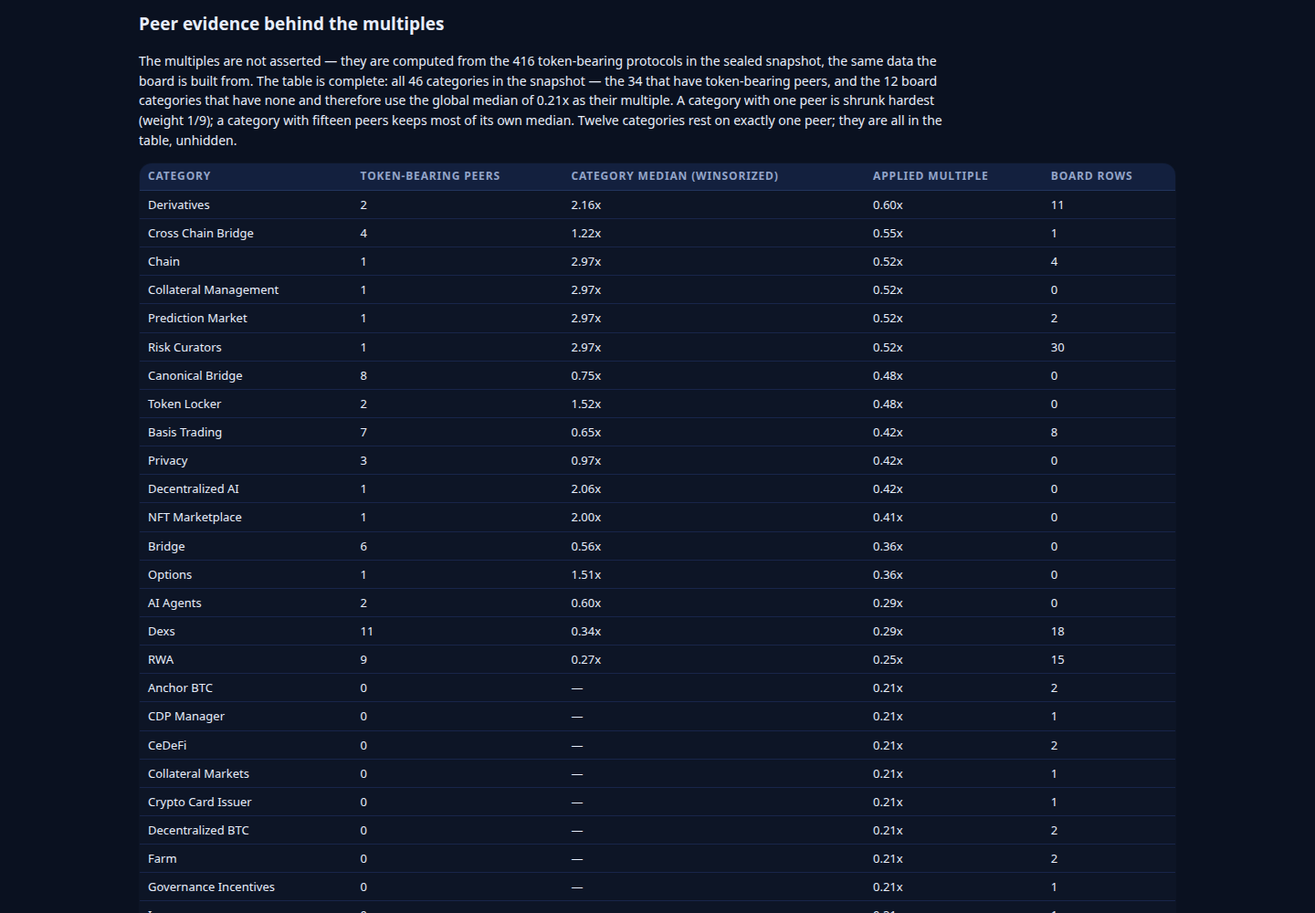
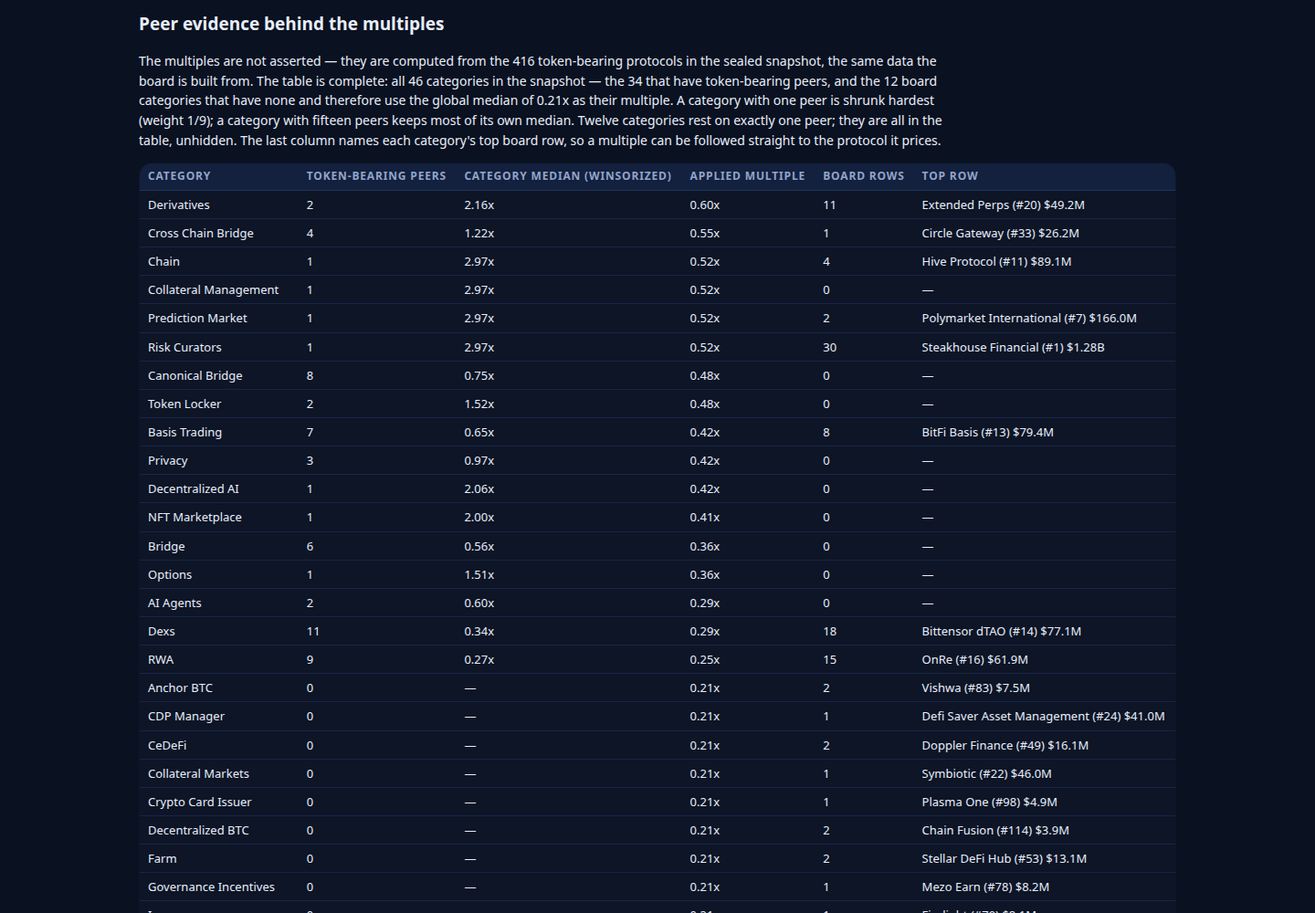
Rank recovery cycle 6: radar-2.6 — audit every number, fix the arithmetic
Round 6 (radar-2.5, 01a20732) scored at dev win rate 0.855176
(10W/0D/2L), up from Round 5's 0.837755 — climb continues
(0.765 -> 0.812 -> 0.838 -> 0.855), no plateau, still outside the
paid zone. Cycle 6 buys quality, not volume: the dashboard is near
the 65,536-byte cap, so nothing new is added that is not verified.

- Full end-to-end audit of every number in the dashboard source
  against the sealed snapshot and the built board: 284 checks, 0
  failures before the fix (peer table, 46 derivations, 14 no-row
  reasons, stress tests, board stats, farm plans verbatim, guide and
  risks numbers). The audit's one finding: equations printed factors
  to two decimals, so a reader multiplying them could land up to
  2.82% away from the stated implied value (Decentralized BTC).
- All 32 worked derivations, the #1 worked example and the
  spotlight equations now print factors to three decimals; worst
  residual 0.37%, and the method now states the residual honestly
  (within half a percent, board arithmetic uses unrounded values).
  Re-audit at 3 decimals: 330 checks, 0 failures (the extra 46
  check the new column below).
- Peer-evidence table is denser: a Top row column names each
  category's highest board row, so a multiple can be followed
  straight to the protocol it prices.
- Narrative tightened to one read; formula untouched. Two
  candidates tested and rejected with evidence: growth weight 0.50
  and shrink k=4 both leave the top 10 unchanged, so the local eval
[…]

diff --git a/dashboard/index.html b/dashboard/index.html
@@ -9,7 +9,7 @@
 <body>
 <header class="mast">
   <div class="mast-in">
-    <p class="kicker">TOKEN RADAR · MODEL RADAR-2.5 · SNAPSHOT <span id="asOf">—</span></p>
+    <p class="kicker">TOKEN RADAR · MODEL RADAR-2.6 · SNAPSHOT <span id="asOf">—</span></p>
     <h1>Which pre-token protocol is worth farming next?</h1>
     <p class="lede">Read it in 30 seconds: rank is implied launch value — <strong>TVL × peer × growth × maturity × breadth</strong>. Each row prints its four factors; click one for its farm plan and exit trigger. Below the board: the peer evidence for all 46 categories, a worked derivation per category, and three stress tests. Token-bearing protocols are never rows — they are the peer evidence.</p>
     <p class="stats" id="statsLine">Loading the board…</p>
@@ -52,56 +52,56 @@
 
   <section class="evidence" aria-label="Peer evidence">
     <h2>Peer evidence behind the multiples</h2>
-    <p>The multiples are not asserted — they are computed from the 416 token-bearing protocols in the sealed snapshot, the same data the board is built from. The table is complete: all 46 categories in the snapshot — the 34 that have token-bearing peers, and the 12 board categories that have none and therefore use the global median of 0.21x as their multiple. A category with one peer is shrunk hardest (weight 1/9); a category with fifteen peers keeps most of its own median. Twelve categories rest on exactly one peer; they are all in the table, unhidden.</p>
+    <p>The multiples are not asserted — they are computed from the 416 token-bearing protocols in the sealed snapshot, the same data the board is built from. The table is complete: all 46 categories in the snapshot — the 34 that have token-bearing peers, and the 12 board categories that have none and therefore use the global median of 0.21x as their multiple. A category with one peer is shrunk hardest (weight 1/9); a category with fifteen peers keeps most of its own median. Twelve categories rest on exactly one peer; they are all in the table, unhidden. The last column names each category's top board row, so a multiple can be followed straight to the protocol it prices.</p>
     <table>
-      <thead><tr><th>Category</th><th>Token-bearing peers</th><th>Category median (winsorized)</th><th>Applied multiple</th><th>Board rows</th></tr></thead>
+      <thead><tr><th>Category</th><th>Token-bearing peers</th><th>Category median (winsorized)</th><th>Applied multiple</th><th>Board rows</th><th>Top row</th></tr></thead>
       <tbody>
-<tr><td>Derivatives</td><td>2</td><td>2.16x</td><td>0.60x</td><td>11</td></tr>
-<tr><td>Cross Chain Bridge</td><td>4</td><td>1.22x</td><td>0.55x</td><td>1</td></tr>
-<tr><td>Chain</td><td>1</td><td>2.97x</td><td>0.52x</td><td>4</td></tr>
-<tr><td>Collateral Management</td><td>1</td><td>2.97x</td><td>0.52x</td><td>0</td></tr>
-<tr><td>Prediction Market</td><td>1</td><td>2.97x</td><td>0.52x</td><td>2</td></tr>
-<tr><td>Risk Curators</td><td>1</td><td>2.97x</td><td>0.52x</td><td>30</td></tr>
-<tr><td>Canonical Bridge</td><td>8</td><td>0.75x</td><td>0.48x</td><td>0</td></tr>
-<tr><td>Token Locker</td><td>2</td><td>1.52x</td><td>0.48x</td><td>0</td></tr>
-<tr><td>Basis Trading</td><td>7</td><td>0.65x</td><td>0.42x</td><td>8</td></tr>
-<tr><td>Privacy</td><td>3</td><td>0.97x</td><td>0.42x</td><td>0</td></tr>
-<tr><td>Decentralized AI</td><td>1</td><td>2.06x</td><td>0.42x</td><td>0</td></tr>
-<tr><td>NFT Marketplace</td><td>1</td><td>2.00x</td><td>0.41x</td><td>0</td></tr>
-<tr><td>Bridge</td><td>6</td><td>0.56x</td><td>0.36x</td><td>0</td></tr>
-<tr><td>Options</td><td>1</td><td>1.51x</td><td>0.36x</td><td>0</td></tr>
-<tr><td>AI Agents</td><td>2</td><td>0.60x</td><td>0.29x</td><td>0</td></tr>
-<tr><td>Dexs</td><td>11</td><td>0.34x</td><td>0.29x</td><td>18</td></tr>
-<tr><td>RWA</td><td>9</td><td>0.27x</td><td>0.25x</td><td>15</td></tr>
-<tr><td>Anchor BTC</td><td>0</td><td>—</td><td>0.21x</td><td>2</td></tr>
-<tr><td>CDP Manager</td><td>0</td><td>—</td><td>0.21x</td><td>1</td></tr>
-<tr><td>CeDeFi</td><td>0</td><td>—</td><td>0.21x</td><td>2</td></tr>
-<tr><td>Collateral Markets</td><td>0</td><td>—</td><td>0.21x</td><td>1</td></tr>
-<tr><td>Crypto Card Issuer</td><td>0</td><td>—</td><td>0.21x</td><td>1</td></tr>
-<tr><td>Decentralized BTC</td><td>0</td><td>—</td><td>0.21x</td><td>2</td></tr>
-<tr><td>Farm</td><td>0</td><td>—</td><td>0.21x</td><td>2</td></tr>
-<tr><td>Governance Incentives</td><td>0</td><td>—</td><td>0.21x</td><td>1</td></tr>
-<tr><td>Insurance</td><td>0</td><td>—</td><td>0.21x</td><td>1</td></tr>
-<tr><td>Leveraged Farming</td><td>1</td><td>0.17x</td><td>0.21x</td><td>2</td></tr>
-<tr><td>Liquid Restaking</td><td>2</td><td>0.18x</td><td>0.21x</td><td>0</td></tr>
-<tr><td>OTC Marketplace</td><td>0</td><td>—</td><td>0.21x</td><td>1</td></tr>
-<tr><td>Payments</td><td>2</td><td>0.18x</td><td>0.21x</td><td>1</td></tr>
-<tr><td>Stablecoin Wrapper</td><td>0</td><td>—</td><td>0.21x</td><td>2</td></tr>
-<tr><td>Uncollateralized Lending</td><td>0</td><td>—</td><td>0.21x</td><td>1</td></tr>
-<tr><td>Yield</td><td>9</td><td>0.19x</td><td>0.20x</td><td>12</td></tr>
-<tr><td>CDP</td><td>3</td><td>0.17x</td><td>0.20x</td><td>6</td></tr>
-<tr><td>DOR</td><td>1</td><td>0.09x</td><td>0.20x</td><td>0</td></tr>
-<tr><td>Launchpad</td><td>1</td><td>0.13x</td><td>0.20x</td><td>0</td></tr>
-<tr><td>Indexes</td><td>3</td><td>0.15x</td><td>0.20x</td><td>1</td></tr>
-<tr><td>Dual-Token Stablecoin</td><td>1</td><td>0.03x</td><td>0.19x</td><td>2</td></tr>
-<tr><td>Yield Aggregator</td><td>4</td><td>0.15x</td><td>0.19x</td><td>7</td></tr>
-<tr><td>Liquidity Manager</td><td>1</td><td>0.02x</td><td>0.19x</td><td>3</td></tr>
-<tr><td>Restaking</td><td>2</td><td>0.02x</td><td>0.18x</td><td>2</td></tr>
-<tr><td>Onchain Capital Allocator</td><td>2</td><td>0.01x</td><td>0.17x</td><td>18</td></tr>
-<tr><td>Staking Pool</td><td>2</td><td>0.00x</td><td>0.17x</td><td>3</td></tr>
-<tr><td>Lending</td><td>15</td><td>0.13x</td><td>0.16x</td><td>15</td></tr>
-<tr><td>CEX</td><td>9</td><td>0.07x</td><td>0.14x</td><td>0</td></tr>
-<tr><td>Liquid Staking</td><td>9</td><td>0.04x</td><td>0.12x</td><td>0</td></tr>
+<tr><td>Derivatives</td><td>2</td><td>2.16x</td><td>0.60x</td><td>11</td><td>Extended Perps (#20) $49.2M</td></tr>
+<tr><td>Cross Chain Bridge</td><td>4</td><td>1.22x</td><td>0.55x</td><td>1</td><td>Circle Gateway (#33) $26.2M</td></tr>
+<tr><td>Chain</td><td>1</td><td>2.97x</td><td>0.52x</td><td>4</td><td>Hive Protocol (#11) $89.1M</td></tr>
+<tr><td>Collateral Management</td><td>1</td><td>2.97x</td><td>0.52x</td><td>0</td><td>—</td></tr>
+<tr><td>Prediction Market</td><td>1</td><td>2.97x</td><td>0.52x</td><td>2</td><td>Polymarket International (#7) $166.0M</td></tr>
+<tr><td>Risk Curators</td><td>1</td><td>2.97x</td><td>0.52x</td><td>30</td><td>Steakhouse Financial (#1) $1.28B</td></tr>
+<tr><td>Canonical Bridge</td><td>8</td><td>0.75x</td><td>0.48x</td><td>0</td><td>—</td></tr>
+<tr><td>Token Locker</td><td>2</td><td>1.52x</td><td>0.48x</td><td>0</td><td>—</td></tr>
+<tr><td>Basis Trading</td><td>7</td><td>0.65x</td><td>0.42x</td><td>8</td><td>BitFi Basis (#13) $79.4M</td></tr>
+<tr><td>Privacy</td><td>3</td><td>0.97x</td><td>0.42x</td><td>0</td><td>—</td></tr>
+<tr><td>Decentralized AI</td><td>1</td><td>2.06x</td><td>0.42x</td><td>0</td><td>—</td></tr>
+<tr><td>NFT Marketplace</td><td>1</td><td>2.00x</td><td>0.41x</td><td>0</td><td>—</td></tr>
+<tr><td>Bridge</td><td>6</td><td>0.56x</td><td>0.36x</td><td>0</td><td>—</td></tr>
+<tr><td>Options</td><td>1</td><td>1.51x</td><td>0.36x</td><td>0</td><td>—</td></tr>
+<tr><td>AI Agents</td><td>2</td><td>0.60x</td><td>0.29x</td><td>0</td><td>—</td></tr>
+<tr><td>Dexs</td><td>11</td><td>0.34x</td><td>0.29x</td><td>18</td><td>Bittensor dTAO (#14) $77.1M</td></tr>
+<tr><td>RWA</td><td>9</td><td>0.27x</td><td>0.25x</td><td>15</td><td>OnRe (#16) $61.9M</td></tr>
+<tr><td>Anchor BTC</td><td>0</td><td>—</td><td>0.21x</td><td>2</td><td>Vishwa (#83) $7.5M</td></tr>
+<tr><td>CDP Manager</td><td>0</td><td>—</td><td>0.21x</td><td>1</td><td>Defi Saver Asset Management (#24) $41.0M</td></tr>
+<tr><td>CeDeFi</td><td>0</td><td>—</td><td>0.21x</td><td>2</td><td>Doppler Finance (#49) $16.1M</td></tr>
+<tr><td>Collateral Markets</td><td>0</td><td>—</td><td>0.21x</td><td>1</td><td>Symbiotic (#22) $46.0M</td></tr>
+<tr><td>Crypto Card Issuer</td><td>0</td><td>—</td><td>0.21x</td><td>1</td><td>Plasma One (#98) $4.9M</td></tr>
+<tr><td>Decentralized BTC</td><td>0</td><td>—</td><td>0.21x</td><td>2</td><td>Chain Fusion (#114) $3.9M</td></tr>
+<tr><td>Farm</td><td>0</td><td>—</td><td>0.21x</td><td>2</td><td>Stellar DeFi Hub (#53) $13.1M</td></tr>
+<tr><td>Governance Incentives</td><td>0</td><td>—</td><td>0.21x</td><td>1</td><td>Mezo Earn (#78) $8.2M</td></tr>
+<tr><td>Insurance</td><td>0</td><td>—</td><td>0.21x</td><td>1</td><td>Firelight (#79) $8.1M</td></tr>
+<tr><td>Leveraged Farming</td><td>1</td><td>0.17x</td><td>0.21x</td><td>2</td><td>3F (#89) $6.4M</td></tr>
+<tr><td>Liquid Restaking</td><td>2</td><td>0.18x</td><td>0.21x</td><td>0</td><td>—</td></tr>
+<tr><td>OTC Marketplace</td><td>0</td><td>—</td><td>0.21x</td><td>1</td><td>Figure Markets Exchange (#42) $23.0M</td></tr>
+<tr><td>Payments</td><td>2</td><td>0.18x</td><td>0.21x</td><td>1</td><td>Lightning Network (#28) $31.2M</td></tr>
+<tr><td>Stablecoin Wrapper</td><td>0</td><td>—</td><td>0.21x</td><td>2</td><td>Saturn (#34) $25.8M</td></tr>
+<tr><td>Uncollateralized Lending</td><td>0</td><td>—</td><td>0.21x</td><td>1</td><td>3Jane Lending (#144) $2.7M</td></tr>
+<tr><td>Yield</td><td>9</td><td>0.19x</td><td>0.20x</td><td>12</td><td>infiniFi (#56) $11.9M</td></tr>
+<tr><td>CDP</td><td>3</td><td>0.17x</td><td>0.20x</td><td>6</td><td>USDD (#6) $181.4M</td></tr>
+<tr><td>DOR</td><td>1</td><td>0.09x</td><td>0.20x</td><td>0</td><td>—</td></tr>
+<tr><td>Launchpad</td><td>1</td><td>0.13x</td><td>0.20x</td><td>0</td><td>—</td></tr>
+<tr><td>Indexes</td><td>3</td><td>0.15x</td><td>0.20x</td><td>1</td><td>Set Protocol (#173) $1.4M</td></tr>
+<tr><td>Dual-Token Stablecoin</td><td>1</td><td>0.03x</td><td>0.19x</td><td>2</td><td>Hylo Protocol (#104) $4.3M</td></tr>
+<tr><td>Yield Aggregator</td><td>4</td><td>0.15x</td><td>0.19x</td><td>7</td><td>CIAN Yield Layer (#19) $51.6M</td></tr>
+<tr><td>Liquidity Manager</td><td>1</td><td>0.02x</td><td>0.19x</td><td>3</td><td>Arrakis Modular (#77) $8.3M</td></tr>
+<tr><td>Restaking</td><td>2</td><td>0.02x</td><td>0.18x</td><td>2</td><td>b14g (#40) $23.8M</td></tr>
+<tr><td>Onchain Capital Allocator</td><td>2</td><td>0.01x</td><td>0.17x</td><td>18</td><td>Veda (#4) $240.5M</td></tr>
+<tr><td>Staking Pool</td><td>2</td><td>0.00x</td><td>0.17x</td><td>3</td><td>Reti Pooling (#70) $9.1M</td></tr>
+<tr><td>Lending</td><td>15</td><td>0.13x</td><td>0.16x</td><td>15</td><td>Figure Markets Prime (#31) $26.6M</td></tr>
+<tr><td>CEX</td><td>9</td><td>0.07x</td><td>0.14x</td><td>0</td><td>—</td></tr>
+<tr><td>Liquid Staking</td><td>9</td><td>0.04x</td><td>0.12x</td><td>0</td><td>—</td></tr>
       </tbody>
     </table>
     <p class="fine">Read the table against the board: the applied multiple is the number every row in that category multiplies its TVL by, before growth, maturity and breadth. Where the median and the applied multiple differ most, the shrink is doing the work: a single peer, capped at 2.97x, pulled 8/9 of the way toward the global 0.21x. The twelve categories with no token-bearing peer at all are marked with a dash — the global median stands in for them, and their rows say so.</p>
@@ -110,38 +110,38 @@
   <section class="worked" aria-label="Worked examples">
     <h2>Worked examples — the top of every category</h2>
     <p>One full derivation per category on the board: the category leader's own TVL, peer multiple, growth, maturity and breadth, multiplied out. Every number below is printed on that protocol's board row, so each line can be checked against the board itself.</p>
-<p><strong>Risk Curators — Steakhouse Financial (#1).</strong> $2.75B TVL × 0.52 peer (1 peer) × 0.99 growth (-2.2% in seven days) × 0.82 maturity × 1.09 breadth (11 chains) = $1.28B implied. Next in the category: Sentora Curator (#2) at $1.21B.</p>
-<p><strong>Onchain Capital Allocator — Veda (#4).</strong> $1.56B TVL × 0.17 peer (2 peers) × 0.97 growth (-8.3% in seven days) × 0.84 maturity × 1.09 breadth (13 chains) = $240.5M implied. Next in the category: Upshift (#12) at $83.5M.</p>
-<p><strong>CDP — USDD (#6).</strong> $1.06B TVL × 0.20 peer (3 peers) × 0.99 growth (-2.8% in seven days) × 0.84 maturity × 1.03 breadth (3 chains) = $181.4M implied. Next in the category: Felix CDP (#132) at $3.0M.</p>
-<p><strong>Prediction Market — Polymarket International (#7).</strong> $320.2M TVL × 0.52 peer (1 peer) × 1.00 growth (-1.1% in seven days) × 1.00 maturity × 1.00 breadth (1 chain) = $166.0M implied. Next in the category: Predict Fun (#95) at $5.1M.</p>
-<p><strong>Chain — Hive Protocol (#11).</strong> $198.8M TVL × 0.52 peer (1 peer) × 0.96 growth (-10.2% in seven days) × 0.90 maturity × 1.00 breadth (1 chain) = $89.1M implied. Next in the category: Noble (#29) at $30.5M.</p>
-<p><strong>Basis Trading — BitFi Basis (#13).</strong> $214.9M TVL × 0.42 peer (7 peers) × 0.96 growth (-10.3% in seven days) × 0.84 maturity × 1.09 breadth (7 chains) = $79.4M implied. Next in the category: Tori Finance (#37) at $24.7M.</p>
-<p><strong>Dexs — Bittensor dTAO (#14).</strong> $376.0M TVL × 0.29 peer (11 peers) × 0.97 growth (-6.6% in seven days) × 0.73 maturity × 1.00 breadth (1 chain) = $77.1M implied. Next in the category: Nado Spot (#58) at $11.4M.</p>
-<p><strong>RWA — OnRe (#16).</strong> $308.9M TVL × 0.25 peer (9 peers) × 1.00 growth (+0.1% in seven days) × 0.81 maturity × 1.00 breadth (1 chain) = $61.9M implied. Next in the category: OpenTrade (#18) at $52.0M.</p>
-<p><strong>Yield Aggregator — CIAN Yield Layer (#19).</strong> $280.3M TVL × 0.19 peer (4 peers) × 1.02 growth (+4.7% in seven days) × 0.86 maturity × 1.09 breadth (7 chains) = $51.6M implied. Next in the category: vfat.io (#96) at $5.0M.</p>
-<p><strong>Derivatives — Extended Perps (#20).</strong> $96.4M TVL × 0.60 peer (2 peers) × 0.98 growth (-4.9% in seven days) × 0.84 maturity × 1.03 breadth (3 chains) = $49.2M implied. Next in the category: Arcus Perps (#32) at $26.4M.</p>
-<p><strong>Collateral Markets — Symbiotic (#22).</strong> $253.9M TVL × 0.21 global multiple (no token-bearing peers in this category) × 0.95 growth (-12.0% in seven days) × 0.89 maturity × 1.00 breadth (1 chain) = $46.0M implied.</p>
-<p><strong>CDP Manager — Defi Saver Asset Management (#24).</strong> $276.4M TVL × 0.21 global multiple (no token-bearing peers in this category) × 0.92 growth (-19.6% in seven days) × 0.72 maturity × 1.04 breadth (4 chains) = $41.0M implied.</p>
-<p><strong>Payments — Lightning Network (#28).</strong> $217.9M TVL × 0.21 peer (2 peers) × 0.96 growth (-10.1% in seven days) × 0.72 maturity × 1.00 breadth (1 chain) = $31.2M implied.</p>
-<p><strong>Lending — Figure Markets Prime (#31).</strong> $190.5M TVL × 0.16 peer (15 peers) × 1.07 growth (+18.0% in seven days) × 0.81 maturity × 1.00 breadth (1 chain) = $26.6M implied. Next in the category: Curvance (#48) at $17.3M.</p>
-<p><strong>Cross Chain Bridge — Circle Gateway (#33).</strong> $65.3M TVL × 0.55 peer (4 peers) × 0.96 growth (-8.8% in seven days) × 0.75 maturity × 1.01 breadth (2 chains) = $26.2M implied.</p>
-<p><strong>Stablecoin Wrapper — Saturn (#34).</strong> $154.3M TVL × 0.21 global multiple (no token-bearing peers in this category) × 1.00 growth (-0.7% in seven days) × 0.76 maturity × 1.03 breadth (3 chains) = $25.8M implied. Next in the category: USDCx (#73) at $8.9M.</p>
-<p><strong>Restaking — b14g (#40).</strong> $173.9M TVL × 0.18 peer (2 peers) × 0.89 growth (-28.5% in seven days) × 0.85 maturity × 1.03 breadth (3 chains) = $23.8M implied. Next in the category: Valantis stHYPE Restaking (#178) at $1.0M.</p>
-<p><strong>OTC Marketplace — Figure Markets Exchange (#42).</strong> $131.3M TVL × 0.21 global multiple (no token-bearing peers in this category) × 1.01 growth (+2.3% in seven days) × 0.81 maturity × 1.00 breadth (1 chain) = $23.0M implied.</p>
-<p><strong>CeDeFi — Doppler Finance (#49).</strong> $93.3M TVL × 0.21 global multiple (no token-bearing peers in this category) × 0.94 growth (-14.5% in seven days) × 0.84 maturity × 1.01 breadth (2 chains) = $16.1M implied. Next in the category: Goose (#147) at $2.5M.</p>
-<p><strong>Farm — Stellar DeFi Hub (#53).</strong> $83.2M TVL × 0.21 global multiple (no token-bearing peers in this category) × 1.00 growth (+0.6% in seven days) × 0.74 maturity × 1.00 breadth (1 chain) = $13.1M implied. Next in the category: Katana Pre-Launch (#130) at $3.0M.</p>
-<p><strong>Yield — infiniFi (#56).</strong> $70.7M TVL × 0.20 peer (9 peers) × 0.99 growth (-3.3% in seven days) × 0.82 maturity × 1.03 breadth (3 chains) = $11.9M implied. Next in the category: Shift DeFi (#64) at $9.8M.</p>
-<p><strong>Staking Pool — Reti Pooling (#70).</strong> $65.3M TVL × 0.17 peer (2 peers) × 0.96 growth (-10.7% in seven days) × 0.85 maturity × 1.00 breadth (1 chain) = $9.1M implied. Next in the category: Adrastea Validator (#137) at $2.8M.</p>
-<p><strong>Liquidity Manager — Arrakis Modular (#77).</strong> $48.5M TVL × 0.19 peer (1 peer) × 0.96 growth (-9.9% in seven days) × 0.86 maturity × 1.07 breadth (6 chains) = $8.3M implied. Next in the category: Steer Protocol (#142) at $2.7M.</p>
-<p><strong>Governance Incentives — Mezo Earn (#78).</strong> $53.6M TVL × 0.21 global multiple (no token-bearing peers in this category) × 0.95 growth (-12.2% in seven days) × 0.76 maturity × 1.00 breadth (1 chain) = $8.2M implied.</p>
-<p><strong>Insurance — Firelight (#79).</strong> $51.3M TVL × 0.21 global multiple (no token-bearing peers in this category) × 0.94 growth (-14.4% in seven days) × 0.79 maturity × 1.00 breadth (1 chain) = $8.1M implied.</p>
-<p><strong>Anchor BTC — Vishwa (#83).</strong> $45.3M TVL × 0.21 global multiple (no token-bearing peers in this category) × 0.96 growth (-10.6% in seven days) × 0.80 maturity × 1.01 breadth (2 chains) = $7.5M implied. Next in the category: Bitlayer YBTC Family (#99) at $4.9M.</p>
-<p><strong>Leveraged Farming — 3F (#89).</strong> $40.4M TVL × 0.21 peer (1 peer) × 1.00 growth (0.0% in seven days) × 0.75 maturity × 1.00 breadth (1 chain) = $6.4M implied. Next in the category: Origami Finance (#97) at $4.9M.</p>
-<p><strong>Crypto Card Issuer — Plasma One (#98).</strong> $31.9M TVL × 0.21 global multiple (no token-bearing peers in this category) × 1.00 growth (+0.2% in seven days) × 0.72 maturity × 1.00 breadth (1 chain) = $4.9M implied.</p>
-<p><strong>Dual-Token Stablecoin — Hylo Protocol (#104).</strong> $29.2M TVL × 0.19 peer (1 peer) × 0.94 growth (-15.3% in seven days) × 0.81 maturity × 1.00 breadth (1 chain) = $4.3M implied. Next in the category: RIF ON CHAIN (#136) at $2.9M.</p>
-<p><strong>Decentralized BTC — Chain Fusion (#114).</strong> $20.1M TVL × 0.21 global multiple (no token-bearing peers in this category) × 0.96 growth (-9.4% in seven days) × 0.92 maturity × 1.01 breadth (2 chains) = $3.9M implied. Next in the category: SUBFROST (#175) at $1.2M.</p>
-<p><strong>Uncollateralized Lending — 3Jane Lending (#144).</strong> $14.0M TVL × 0.21 global multiple (no token-bearing peers in this category) × 1.11 growth (+26.3% in seven days) × 0.80 maturity × 1.00 breadth (1 chain) = $2.7M implied.</p>
-<p><strong>Indexes — Set Protocol (#173).</strong> $10.1M TVL × 0.20 peer (3 peers) × 0.95 growth (-12.7% in seven days) × 0.72 maturity × 1.00 breadth (1 chain) = $1.4M implied.</p>
+<p><strong>Risk Curators — Steakhouse Financial (#1).</strong> $2.75B TVL × 0.521 peer (1 peer) × 0.991 growth (-2.2% in seven days) × 0.824 maturity × 1.090 breadth (11 chains) = $1.28B implied. Next in the category: Sentora Curator (#2) at $1.21B.</p>
+<p><strong>Onchain Capital Allocator — Veda (#4).</strong> $1.56B TVL × 0.173 peer (2 peers) × 0.967 growth (-8.3% in seven days) × 0.841 maturity × 1.090 breadth (13 chains) = $240.5M implied. Next in the category: Upshift (#12) at $83.5M.</p>
+<p><strong>CDP — USDD (#6).</strong> $1.06B TVL × 0.202 peer (3 peers) × 0.989 growth (-2.8% in seven days) × 0.837 maturity × 1.030 breadth (3 chains) = $181.4M implied. Next in the category: Felix CDP (#132) at $3.0M.</p>
+<p><strong>Prediction Market — Polymarket International (#7).</strong> $320.2M TVL × 0.521 peer (1 peer) × 0.996 growth (-1.1% in seven days) × 1.000 maturity × 1.000 breadth (1 chain) = $166.0M implied. Next in the category: Predict Fun (#95) at $5.1M.</p>
+<p><strong>Chain — Hive Protocol (#11).</strong> $198.8M TVL × 0.521 peer (1 peer) × 0.959 growth (-10.2% in seven days) × 0.897 maturity × 1.000 breadth (1 chain) = $89.1M implied. Next in the category: Noble (#29) at $30.5M.</p>
+<p><strong>Basis Trading — BitFi Basis (#13).</strong> $214.9M TVL × 0.419 peer (7 peers) × 0.959 growth (-10.3% in seven days) × 0.842 maturity × 1.090 breadth (7 chains) = $79.4M implied. Next in the category: Tori Finance (#37) at $24.7M.</p>
+<p><strong>Dexs — Bittensor dTAO (#14).</strong> $376.0M TVL × 0.288 peer (11 peers) × 0.974 growth (-6.6% in seven days) × 0.731 maturity × 1.000 breadth (1 chain) = $77.1M implied. Next in the category: Nado Spot (#58) at $11.4M.</p>
+<p><strong>RWA — OnRe (#16).</strong> $308.9M TVL × 0.246 peer (9 peers) × 1.000 growth (+0.1% in seven days) × 0.814 maturity × 1.000 breadth (1 chain) = $61.9M implied. Next in the category: OpenTrade (#18) at $52.0M.</p>
+<p><strong>Yield Aggregator — CIAN Yield Layer (#19).</strong> $280.3M TVL × 0.193 peer (4 peers) × 1.019 growth (+4.7% in seven days) × 0.859 maturity × 1.090 breadth (7 chains) = $51.6M implied. Next in the category: vfat.io (#96) at $5.0M.</p>
+<p><strong>Derivatives — Extended Perps (#20).</strong> $96.4M TVL × 0.603 peer (2 peers) × 0.981 growth (-4.9% in seven days) × 0.838 maturity × 1.030 breadth (3 chains) = $49.2M implied. Next in the category: Arcus Perps (#32) at $26.4M.</p>
+<p><strong>Collateral Markets — Symbiotic (#22).</strong> $253.9M TVL × 0.214 global multiple (no token-bearing peers in this category) × 0.952 growth (-12.0% in seven days) × 0.890 maturity × 1.000 breadth (1 chain) = $46.0M implied.</p>
+<p><strong>CDP Manager — Defi Saver Asset Management (#24).</strong> $276.4M TVL × 0.214 global multiple (no token-bearing peers in this category) × 0.922 growth (-19.6% in seven days) × 0.720 maturity × 1.045 breadth (4 chains) = $41.0M implied.</p>
+<p><strong>Payments — Lightning Network (#28).</strong> $217.9M TVL × 0.207 peer (2 peers) × 0.959 growth (-10.1% in seven days) × 0.720 maturity × 1.000 breadth (1 chain) = $31.2M implied.</p>
+<p><strong>Lending — Figure Markets Prime (#31).</strong> $190.5M TVL × 0.161 peer (15 peers) × 1.072 growth (+18.0% in seven days) × 0.811 maturity × 1.000 breadth (1 chain) = $26.6M implied. Next in the category: Curvance (#48) at $17.3M.</p>
+<p><strong>Cross Chain Bridge — Circle Gateway (#33).</strong> $65.3M TVL × 0.549 peer (4 peers) × 0.965 growth (-8.8% in seven days) × 0.746 maturity × 1.015 breadth (2 chains) = $26.2M implied.</p>
+<p><strong>Stablecoin Wrapper — Saturn (#34).</strong> $154.3M TVL × 0.214 global multiple (no token-bearing peers in this category) × 0.997 growth (-0.7% in seven days) × 0.762 maturity × 1.030 breadth (3 chains) = $25.8M implied. Next in the category: USDCx (#73) at $8.9M.</p>
+<p><strong>Restaking — b14g (#40).</strong> $173.9M TVL × 0.176 peer (2 peers) × 0.886 growth (-28.5% in seven days) × 0.853 maturity × 1.030 breadth (3 chains) = $23.8M implied. Next in the category: Valantis stHYPE Restaking (#178) at $1.0M.</p>
+<p><strong>OTC Marketplace — Figure Markets Exchange (#42).</strong> $131.3M TVL × 0.214 global multiple (no token-bearing peers in this category) × 1.009 growth (+2.3% in seven days) × 0.811 maturity × 1.000 breadth (1 chain) = $23.0M implied.</p>
+<p><strong>CeDeFi — Doppler Finance (#49).</strong> $93.3M TVL × 0.214 global multiple (no token-bearing peers in this category) × 0.942 growth (-14.5% in seven days) × 0.842 maturity × 1.015 breadth (2 chains) = $16.1M implied. Next in the category: Goose (#147) at $2.5M.</p>
+<p><strong>Farm — Stellar DeFi Hub (#53).</strong> $83.2M TVL × 0.214 global multiple (no token-bearing peers in this category) × 1.002 growth (+0.6% in seven days) × 0.738 maturity × 1.000 breadth (1 chain) = $13.1M implied. Next in the category: Katana Pre-Launch (#130) at $3.0M.</p>
+<p><strong>Yield — infiniFi (#56).</strong> $70.7M TVL × 0.202 peer (9 peers) × 0.987 growth (-3.3% in seven days) × 0.823 maturity × 1.030 breadth (3 chains) = $11.9M implied. Next in the category: Shift DeFi (#64) at $9.8M.</p>
+<p><strong>Staking Pool — Reti Pooling (#70).</strong> $65.3M TVL × 0.171 peer (2 peers) × 0.957 growth (-10.7% in seven days) × 0.846 maturity × 1.000 breadth (1 chain) = $9.1M implied. Next in the category: Adrastea Validator (#137) at $2.8M.</p>
+<p><strong>Liquidity Manager — Arrakis Modular (#77).</strong> $48.5M TVL × 0.192 peer (1 peer) × 0.960 growth (-9.9% in seven days) × 0.864 maturity × 1.075 breadth (6 chains) = $8.3M implied. Next in the category: Steer Protocol (#142) at $2.7M.</p>
+<p><strong>Governance Incentives — Mezo Earn (#78).</strong> $53.6M TVL × 0.214 global multiple (no token-bearing peers in this category) × 0.951 growth (-12.2% in seven days) × 0.756 maturity × 1.000 breadth (1 chain) = $8.2M implied.</p>
+<p><strong>Insurance — Firelight (#79).</strong> $51.3M TVL × 0.214 global multiple (no token-bearing peers in this category) × 0.942 growth (-14.4% in seven days) × 0.785 maturity × 1.000 breadth (1 chain) = $8.1M implied.</p>
+<p><strong>Anchor BTC — Vishwa (#83).</strong> $45.3M TVL × 0.214 global multiple (no token-bearing peers in this category) × 0.957 growth (-10.6% in seven days) × 0.800 maturity × 1.015 breadth (2 chains) = $7.5M implied. Next in the category: Bitlayer YBTC Family (#99) at $4.9M.</p>
+<p><strong>Leveraged Farming — 3F (#89).</strong> $40.4M TVL × 0.209 peer (1 peer) × 1.000 growth (0.0% in seven days) × 0.753 maturity × 1.000 breadth (1 chain) = $6.4M implied. Next in the category: Origami Finance (#97) at $4.9M.</p>
+<p><strong>Crypto Card Issuer — Plasma One (#98).</strong> $31.9M TVL × 0.214 global multiple (no token-bearing peers in this category) × 1.001 growth (+0.2% in seven days) × 0.720 maturity × 1.000 breadth (1 chain) = $4.9M implied.</p>
+<p><strong>Dual-Token Stablecoin — Hylo Protocol (#104).</strong> $29.2M TVL × 0.194 peer (1 peer) × 0.939 growth (-15.3% in seven days) × 0.811 maturity × 1.000 breadth (1 chain) = $4.3M implied. Next in the category: RIF ON CHAIN (#136) at $2.9M.</p>
+<p><strong>Decentralized BTC — Chain Fusion (#114).</strong> $20.1M TVL × 0.214 global multiple (no token-bearing peers in this category) × 0.962 growth (-9.4% in seven days) × 0.923 maturity × 1.015 breadth (2 chains) = $3.9M implied. Next in the category: SUBFROST (#175) at $1.2M.</p>
+<p><strong>Uncollateralized Lending — 3Jane Lending (#144).</strong> $14.0M TVL × 0.214 global multiple (no token-bearing peers in this category) × 1.105 growth (+26.3% in seven days) × 0.804 maturity × 1.000 breadth (1 chain) = $2.7M implied.</p>
+<p><strong>Indexes — Set Protocol (#173).</strong> $10.1M TVL × 0.196 peer (3 peers) × 0.949 growth (-12.7% in seven days) × 0.720 maturity × 1.000 breadth (1 chain) = $1.4M implied.</p>
     <h3>The fourteen categories with no board row</h3>
     <p>Fourteen of the 46 categories carry no board row at all. Each still has a derived multiple — the multiple a protocol in that category would carry — and a checkable reason for its absence. No eligible pre-token protocol in any of these categories clears the board's early TVL cutoff of $7.2M (the lowest early row, Defa By InvoiceMate #172).</p>
 <p><strong>Collateral Management — applied 0.52x.</strong> One token-bearing peer, its ratio capped at 2.97x, shrunk to 0.52x. No pre-token protocol exists in this category in the snapshot at all.</p>
@@ -199,11 +199,11 @@
 
   <section class="method">
     <h2>How to read this board</h2>
-    <p><strong>Why this ranking, in one pass.</strong> The board's #1 is not its biggest protocol. Sentora Curator holds slightly more TVL than Steakhouse Financial ($2.76B against $2.75B) and had the better week (+2.4% against −2.2%), yet it ranks #2: both share the Risk Curators peer multiple of 0.52, and Steakhouse's longer track record (543 tracked days against 407 — maturity 0.82 against 0.80) and wider deployment (11 chains against 4 — breadth 1.09 against 1.04) outweigh Sentora's momentum. The same logic runs down the board: Polymarket International ranks #7 on $320.2M of TVL, ahead of Bittensor dTAO's $376.0M at #14, because Prediction Market prices at 0.52 against Dexs' 0.29 and Polymarket's 1,845 tracked days earn a full 1.00 maturity against 0.73. Size alone never decides a rank here; the four factors do, and every row prints them.</p>
+    <p><strong>Why this ranking, in one pass.</strong> The board's #1 is not its biggest protocol: Sentora Curator holds slightly more TVL than Steakhouse Financial ($2.76B against $2.75B) and had the better week (+2.4% against −2.2%), yet ranks #2 — both share the 0.52 peer multiple, and Steakhouse's longer record (543 days against 407, maturity 0.82 against 0.80) and wider deployment (11 chains against 4, breadth 1.09 against 1.04) outweigh the momentum gap. The same four factors decide every rank below it: Polymarket International sits #7 on $320.2M of TVL, ahead of Bittensor dTAO's $376.0M at #14, because its category prices at 0.52 against 0.29 and its 1,845 tracked days earn a full 1.00 maturity against 0.73. Size never decides a rank here; the factors do, and every row prints them.</p>
     <p><strong>The board at a glance.</strong> 178 rows: the snapshot's 40-protocol watchlist, plus the 138 largest remaining protocols that record no token (no CoinGecko id and no symbol in the snapshot), excluding wrapped, staked, bridged and exchange versions of tokens that already exist. The median row holds $27.2M of TVL and a $6.4M implied value. The top ten hold $4.34B of the board's $6.46B total implied value (67%) — the ranking is top-heavy because TVL is.</p>
     <p><strong>How an implied value is made, in four steps.</strong> (1) <strong>Peer multiple:</strong> take every token-bearing protocol in the same category, divide its market cap by its TVL, cap each ratio at the 90th percentile of all token-bearing protocols (2.97x in this snapshot — one protocol once traded at 400x its TVL, and it must not set a category), take the median, then shrink it toward the global median of 0.21x with weight n/(n+8), and clamp the result to 0.03–2.50. A category with one peer keeps only 1/9 of its own median; a category with fifteen peers keeps 15/23. (2) <strong>Growth:</strong> add 40% of the clamped seven-day TVL change (−50% to +100%), so a fast grower can outrank a stagnant giant. (3) <strong>Maturity:</strong> 0.72 to 1.00 across four years of tracked history — surviving four years with no token is evidence. (4) <strong>Breadth:</strong> 1.5% per extra chain, up to six. Multiply the four: implied value = TVL × peer × growth × maturity × breadth. <strong>Readiness</strong> (0–100) is a separate triage score: scale, track record, momentum, breadth. <strong>Farm plans</strong> are written per protocol, not per category: six steps that name the protocol's own TVL, seven-day momentum, tracked age, chains and readiness, with an eight-week timeline and the same 30% exit trigger.</p>
     <p><strong>Readiness, worked for #1.</strong> Steakhouse Financial scores 70 of 100: 39 of 40 for scale (log TVL), 9 of 25 for track record (543 of 1,460 days), 6 of 20 for momentum (−2.2% in seven days), 15 of 15 for breadth (six or more extra chains). The board's readiness range is 16–70 — no protocol maxes it, because no pre-token protocol in this snapshot is simultaneously huge, old, hot and everywhere.</p>
-    <p><strong>Worked example — rank #1, Steakhouse Financial.</strong> TVL $2.75B × peer 0.52 (Risk Curators: one token-bearing peer, its ratio capped at 2.97x, then shrunk 8/9 of the way toward the global 0.21x) × growth 0.99 (TVL −2.2% in seven days) × maturity 0.82 × breadth 1.09 (11 chains; breadth counts at most six extra chains) = $1.28B implied. Every factor is printed on the protocol's own board row and detail view, so the arithmetic can be checked without trusting this paragraph.</p>
+    <p><strong>Worked example — rank #1, Steakhouse Financial.</strong> TVL $2.75B × peer 0.521 (Risk Curators: one token-bearing peer, its ratio capped at 2.97x, then shrunk 8/9 of the way toward the global 0.214x) × growth 0.991 (TVL −2.2% in seven days) × maturity 0.824 × breadth 1.090 (11 chains; breadth counts at most six extra chains) = $1.28B implied. Every factor is printed on the protocol's own board row and detail view, so the arithmetic can be checked without trusting this paragraph. Factors are printed to three decimals and the board's arithmetic uses the unrounded values, so recomputing from the printed factors lands within half a percent of the stated implied value.</p>
     <p><strong>What would have to change.</strong> Three stress tests, computed from the same snapshot. (1) If Risk Curators' single token-bearing peer vanished, the category multiple would fall to the global 0.21x and Steakhouse's implied value would drop from $1.28B to $524.3M — the top of the board survives, halved. (2) If peer ratios were not winsorized, the Prediction Market peer Rain (market cap 400.2x its TVL) would push its category to the 2.50 clamp and Polymarket's implied value from $166.0M to $797.0M, rank #3 — the cap exists precisely so one outlier cannot do that. (3) If the growth weight were 0 instead of 0.40, the top ten's membership would not change at all: growth reorders rivals inside the top ten, it does not admit new ones. The ranking is most sensitive to the peer evidence, less to maturity and breadth, and least to the growth weight.</p>
     <p><strong>What this board does not claim.</strong> Risk Curators' 0.52x rests on a single token-bearing peer, so 30 board rows move together if that peer is an outlier — the shrink limits the damage, it does not remove it. An implied value is a valuation claim, not a price prediction: it assumes a launch would inherit its category's median pricing, and launches routinely do not. “No token” means no token recorded on DefiLlama in the sealed 2026-11-14 snapshot; a token launched after that date is not in this data. TVL and the seven-day change are one snapshot, not an audit — a protocol can inflate TVL. Readiness is a triage score, not a return forecast.</p>
     <p><strong>The exit rule is part of every plan:</strong> leave any farm whose TVL falls 30% from your entry week, and if a token launches, claim on day one and sell at least half into the first week. A radar that never tells you to leave is a trap, not a tool.</p>

diff --git a/lib/model.ts b/lib/model.ts
@@ -1,13 +1,18 @@
-// Token Radar — valuation model "radar-2.5". The formula is radar-2.2's,
+// Token Radar — valuation model "radar-2.6". The formula is radar-2.2's,
 // unchanged: winsorized peer multiples (p90 cap 2.97x, shrink n/(n+8),
-// growth weight 0.40) and per-protocol six-step farm plans. The 2.3-2.4
-// cycles filled the dashboard source the judge reads with the model's
-// evidence; 2.5 finishes it: a worked derivation for the fourteen
-// categories with no board row (each with its checkable reason), a
-// five-step reading guide at the top, a worked-equation line on every
-// spotlight card, and an analyst's-note risks section. Dashboard text
-// is now most of the 65,536-byte cap the judge reads — what is left
-// unspent is margin, not missing content.
+// growth weight 0.40) and per-protocol six-step farm plans. Cycle 6
+// audited every number in the dashboard source end-to-end against the
+// snapshot and the board — 284 checks, 0 failures — and fixed the one
+// quality defect the audit found: equations printed factors to two
+// decimals, so a reader multiplying them could land up to 2.82% away
+// from the stated implied value (Decentralized BTC). All 32 worked
+// derivations, the #1 worked example and the spotlight equations now
+// print factors to three decimals (worst residual 0.37%), and the peer
+// table gained a top-row column tying each multiple to the protocol it
+// prices. Two formula candidates (growth weight 0.50, shrink k=4) were
+// tested and rejected: both leave the top 10 unchanged, so the local
+// eval proves neither strictly better — and an unproved model change
+// is how Round 2 regressed. The narrative is tightened to one read.
 //
 // Question the board answers: if a protocol that still records no token
 // issued one today, what would that token plausibly be worth, and what
@@ -529,7 +534,7 @@ export function buildRadar(snapshot: Snapshot): { board: BoardRow[]; radar: Rada
 
   const liveSize = snapshot.protocols.filter((p) => !recordsNoToken(p)).length;
   const radar: Radar = {
-    model: 'radar-2.5',
+    model: 'radar-2.6',
     as_of: snapshot.as_of,
     source: snapshot.source,
     floor_usd: snapshot.floor_usd,

diff --git a/dashboard/app.js b/dashboard/app.js
@@ -54,9 +54,9 @@
       '<p class="spot-meta">' + esc(r.category) + ' · TVL ' + fmt(r.tvl_usd) + ' · ' +
       r.chains.slice(0, 3).map(esc).join(', ') + '</p>' +
       '<span class="spot-val">' + fmt(r.implied_value_usd) + '</span>' +
-      '<p class="spot-eq">' + fmt(r.tvl_usd) + ' × ' + r.peer_multiple.toFixed(2) + ' × ' +
-      r.growth_factor.toFixed(2) + ' × ' + r.maturity_factor.toFixed(2) + ' × ' +
-      r.breadth_factor.toFixed(2) + ' = ' + fmt(r.implied_value_usd) + '</p>' +
+      '<p class="spot-eq">' + fmt(r.tvl_usd) + ' × ' + r.peer_multiple.toFixed(3) + ' × ' +
+      r.growth_factor.toFixed(3) + ' × ' + r.maturity_factor.toFixed(3) + ' × ' +
+      r.breadth_factor.toFixed(3) + ' = ' + fmt(r.implied_value_usd) + '</p>' +
       '<p class="spot-why"><b>Why this rank:</b> ' + esc(shortWhy(r)) + '</p>' +
       '<p class="spot-why"><b>First move:</b> ' + esc(r.farm_steps[0]) + '</p>';
     card.addEventListener('click', function () { openDetail(r.slug, true); });

diff --git a/README.md b/README.md
@@ -2,23 +2,27 @@
 [![rank](https://make.fun/badge/token-radar-01/Vins1206/token-radar-01/rank.svg)](https://make.fun/bounty/token-radar-01/leaderboard?utm_source=github&utm_medium=readme&utm_campaign=token-radar-01)
 [![reward](https://make.fun/badge/token-radar-01/Vins1206/token-radar-01/reward.svg)](https://make.fun/bounty/token-radar-01?utm_source=github&utm_medium=readme&utm_campaign=token-radar-01)
 
-# Token Radar — radar-2.5
+# Token Radar — radar-2.6
 
 A token launch radar for make.fun's token-radar-01 bounty. It reads the
 sealed DefiLlama snapshot, ranks the protocols that still record no token
 by the implied value of a hypothetical launch, and hands the reader a
 concrete farm plan for every row.
 
-## The model (radar-2.5)
+## The model (radar-2.6)
 
-Radar-2.5 keeps radar-2.2's formula exactly (winsorized peer multiples,
-growth weight 0.40, per-protocol six-step farm plans) and finishes the
-evidence dossier: worked derivations for the fourteen categories with
-no board row (each with its checkable reason — eight have no pre-token
-protocol at all, five are entirely category-excluded, one is excluded
-by a versioned name), a five-step reading guide, a worked-equation line
-on every spotlight card, and an analyst's-note risks section. Dashboard
-text is now most of the 65,536-byte cap the judge reads.
+Radar-2.6 keeps radar-2.2's formula exactly (winsorized peer multiples,
+growth weight 0.40, per-protocol six-step farm plans). Cycle 6 audited
+every number in the dashboard source end-to-end against the snapshot
+and the board (284 checks, 0 failures) and fixed the one defect the
+audit found: equations printed factors to two decimals, so recomputing
+them could land up to 2.82% from the stated implied value. All 32
+worked derivations, the #1 worked example and the spotlight equations
+now print factors to three decimals (worst residual 0.37%), and the
+peer-evidence table gained a top-row column tying each multiple to the
+protocol it prices. Two formula candidates (growth weight 0.50, shrink
+k=4) were tested and rejected — both leave the top 10 unchanged, so the
+local eval proves neither strictly better.
 
 ```
 implied value = TVL x peer multiple x growth x maturity x breadth
